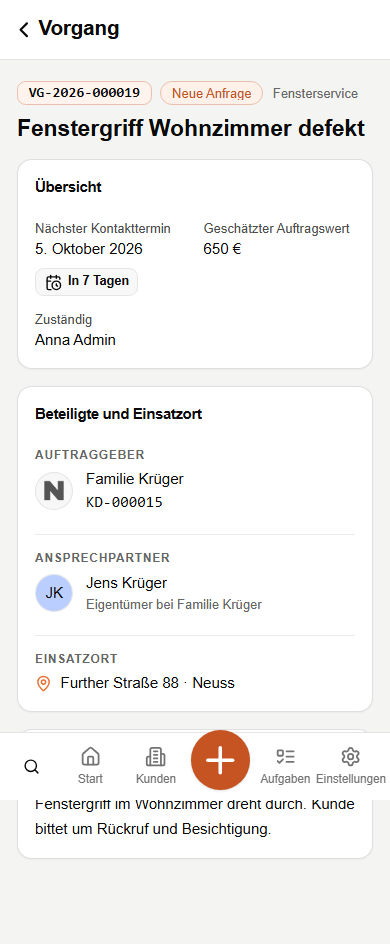
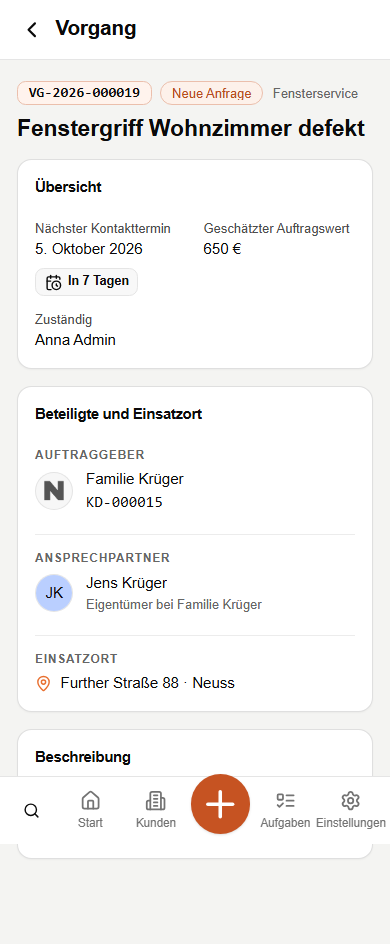
fix(nora): harden Alpha UI 1 deal experience RC
Kanban: `.nora-kanban-scroll` becomes the containing block of its
absolutely positioned descendants so the document no longer scrolls
horizontally (3799 px -> viewport width at 1440/1280/820); the board keeps
its own horizontal scroll, drag-and-drop unchanged.

Hit targets at the Nora 44 px minimum: long-text disclosure, task
completion control (invisible 44 px zone around the 16 px box), mobile
back button, deal header edit link, header customer link, site-detail
disclosure. Accent text (light) deepened to #b94c1e so status pill tint
and app ground clear AA; strong fill and working accent unchanged.

Tests: document overflow invariant, checkbox hit zone, disclosure and
back-button sizes. Docs 02/17 and evidence assets refreshed.

Changed region(s): [[0.0615, 0.768, 0.9846, 0.8909], [0.0615, 0.0, 0.3692, 0.0614]]

diff --git a/src/index.css b/src/index.css
@@ -109,7 +109,10 @@
   --nora-accent-strong: #c65322;
   --nora-accent: #e86f2f;
   --nora-accent-hover: #a8441b;
-  --nora-accent-text: #c65322;
+  /* Accent *text* is one step deeper than the fill: #c65322 measures only
+     4.06:1 on the soft tint and 4.09:1 on the app ground; #b94c1e clears
+     4.5:1 on white, card, soft tint and app ground (hardening pass). */
+  --nora-accent-text: #b94c1e;
   --nora-accent-soft: #fdf1ea;
   --nora-accent-border: color-mix(in oklab, #e86f2f 34%, var(--border));
   --nora-accent-ring: color-mix(in oklab, #e86f2f 34%, transparent);
@@ -655,6 +658,11 @@ input[type="time"] {
   }
 
   .nora-kanban-scroll {
+    /* Containing block for absolutely positioned descendants (e.g. the
+       `sr-only` spans inside cards). Without this they resolve against
+       `.nora-kanban-viewport`, escape this box's overflow clip and widen
+       the whole document to the board's width (measured: 3799 px at 1440). */
+    position: relative;
     width: 100%;
     overflow-x: auto;
     overflow-y: visible;
@@ -1467,8 +1475,10 @@ input[type="time"] {
   }
 
   .nora-longtext-toggle {
-    @apply mt-2 inline-flex items-center gap-1 rounded-md text-[13px] font-medium;
-    min-height: 2.25rem;
+    @apply mt-1 inline-flex items-center gap-1 rounded-md text-[13px] font-medium;
+    min-height: var(--nora-touch-min);
+    padding-inline: 0.25rem;
+    margin-inline: -0.25rem;
     color: var(--nora-accent-text);
   }
 
@@ -1499,12 +1509,47 @@ input[type="time"] {
   .nora-task-check {
     @apply flex shrink-0 items-center justify-center;
     min-width: var(--nora-touch-min);
-    min-height: 2.25rem;
+    min-height: var(--nora-touch-min);
     margin-left: -0.5rem;
+    margin-top: -0.25rem;
+  }
+
+  /* The visible box stays 16 px; the hit area is the full touch minimum. */
+  .nora-task-checkbox {
+    position: relative;
+    width: 1rem;
+    height: 1rem;
+  }
+
+  .nora-task-checkbox::after {
+    content: "";
+    position: absolute;
+    inset: -14px;
   }
 
   .nora-task-body {
     @apply flex min-w-0 flex-1 flex-col gap-1 pt-1.5;
+  }
+
+  /* Mobile header back control: 24 px chevron, touch-sized hit area.
+     Plain declarations so browser tests can measure it. */
+  .nora-mobile-back {
+    width: var(--nora-touch-min);
+    height: var(--nora-touch-min);
+    margin-left: -0.5rem;
+  }
+
+  /* Inline text link inside a meta line: same layout, 44 px hit area. */
+  .nora-inline-target {
+    position: relative;
+    display: inline-block;
+    padding-block: 0.875rem;
+    margin-block: -0.875rem;
+  }
+
+  .nora-deal-dialog-actions > a,
+  .nora-deal-dialog-actions > button {
+    min-height: var(--nora-touch-min);
   }
 
   .nora-task-text {

diff --git a/src/components/atomic-crm/deals/DealTasksSection.test.tsx b/src/components/atomic-crm/deals/DealTasksSection.test.tsx
@@ -48,11 +48,13 @@ const setup = async (deal: Deal = DEAL, tasks: Task[] = [TASK]) => {
         tasks,
       }}
     >
-      <ResourceContextProvider value="deals">
-        <RecordContextProvider value={deal}>
-          <DealTasksSection />
-        </RecordContextProvider>
-      </ResourceContextProvider>
+      <div style={{ padding: 32 }}>
+        <ResourceContextProvider value="deals">
+          <RecordContextProvider value={deal}>
+            <DealTasksSection />
+          </RecordContextProvider>
+        </ResourceContextProvider>
+      </div>
     </StoryWrapper>,
   );
 };
@@ -92,6 +94,17 @@ describe("DealTasksSection (Alpha UI 1)", () => {
     const rect = menu!.getBoundingClientRect();
     expect(rect.width).toBeGreaterThanOrEqual(44);
     expect(rect.height).toBeGreaterThanOrEqual(44);
+    // the completion control: 16 px box, 44 px hit area around it
+    const checkbox = row!.querySelector('[role="checkbox"]') as HTMLElement;
+    const box = checkbox.getBoundingClientRect();
+    expect(
+      document.elementFromPoint(box.right + 10, box.top + box.height / 2),
+    ).toBe(checkbox);
+    expect(
+      document.elementFromPoint(box.left + box.width / 2, box.bottom + 10),
+    ).toBe(checkbox);
+    const wrap = row!.querySelector(".nora-task-check") as HTMLElement;
+    expect(wrap.getBoundingClientRect().height).toBeGreaterThanOrEqual(44);
     // type is shown as a quiet prefix, not as a second heading
     expect(row!.querySelector(".nora-task-type")?.textContent).toBe("Rückruf");
     // the open count is shown in the section head

diff --git a/src/components/atomic-crm/deals/DealShowSections.tsx b/src/components/atomic-crm/deals/DealShowSections.tsx
@@ -1,6 +1,7 @@
 import type { ReactNode } from "react";
 import { Building2, MapPin, UserRound } from "lucide-react";
 import { useListContext, useTranslate } from "ra-core";
+import { Link } from "react-router";
 
 import { ReferenceArrayField } from "@/components/admin/reference-array-field";
 import { ReferenceField } from "@/components/admin/reference-field";
@@ -97,8 +98,23 @@ export const DealHeaderContextLine = ({
       <ReferenceField
         source="company_id"
         reference="companies"
-        link="show"
-        className="font-medium text-foreground"
+        link={false}
+        render={({ referenceRecord }) => {
+          const company = referenceRecord as Company | undefined;
+          if (!company) return null;
+          return (
+            <Link
+              to={noraCreatePath({
+                resource: "companies",
+                type: "show",
+                id: company.id,
+              })}
+              className="nora-inline-target font-medium text-foreground hover:underline"
+            >
+              {company.name}
+            </Link>
+          );
+        }}
       />
       {site ? (
         <span className="inline-flex min-w-0 items-center gap-2">

diff --git a/src/components/atomic-crm/misc/MobileBackButton.test.tsx b/src/components/atomic-crm/misc/MobileBackButton.test.tsx
@@ -1,0 +1,24 @@
+import { page } from "vitest/browser";
+import { render } from "vitest-browser-react";
+import { describe, expect, it } from "vitest";
+
+import "@/index.css";
+import { StoryWrapper } from "@/test/StoryWrapper";
+import { MobileBackButton } from "./MobileBackButton";
+
+describe("MobileBackButton (Alpha UI 1 hardening)", () => {
+  it("offers a touch-sized hit area around the small chevron", async () => {
+    await render(
+      <StoryWrapper>
+        <MobileBackButton to="/" />
+      </StoryWrapper>,
+    );
+    const button = page.getByRole("button", { name: "Back" });
+    await expect.element(button).toBeVisible();
+    const rect = (
+      document.querySelector('button[type="button"]') as HTMLElement
+    ).getBoundingClientRect();
+    expect(rect.width).toBeGreaterThanOrEqual(44);
+    expect(rect.height).toBeGreaterThanOrEqual(44);
+  });
+});

diff --git a/src/components/atomic-crm/deals/DealCard.dnd.test.tsx b/src/components/atomic-crm/deals/DealCard.dnd.test.tsx
@@ -89,6 +89,17 @@ describe("Deal Kanban card (Alpha UI 1)", () => {
     expect(getComputedStyle(site).overflow).toBe("hidden");
   });
 
+  it("keeps horizontal scrolling inside the board, never on the document", async () => {
+    const scroll = document.querySelector(".nora-kanban-scroll") as HTMLElement;
+    expect(scroll).not.toBeNull();
+    // containing block for absolutely positioned descendants (sr-only spans)
+    expect(getComputedStyle(scroll).position).toBe("relative");
+    expect(document.documentElement.scrollWidth).toBeLessThanOrEqual(
+      window.innerWidth + 1,
+    );
+    expect(scroll.scrollWidth).toBeGreaterThanOrEqual(scroll.clientWidth);
+  });
+
   it("still moves a card to another status via keyboard drag and drop", async () => {
     expect(columnOf(7)).toBe("neue-anfrage");
 

diff --git a/src/components/atomic-crm/deals/DealSiteAddressInputs.tsx b/src/components/atomic-crm/deals/DealSiteAddressInputs.tsx
@@ -118,7 +118,7 @@ export const DealSiteAddressInputs = () => {
         <button
           type="button"
           onClick={() => setDetailsExpanded(true)}
-          className="min-h-9 w-fit rounded-md text-left text-[13px] font-medium text-[var(--nora-accent-text)] hover:underline focus-visible:outline-none focus-visible:ring-[3px] focus-visible:ring-[var(--nora-accent-ring)]"
+          className="min-h-11 w-fit rounded-md text-left text-[13px] font-medium text-[var(--nora-accent-text)] hover:underline focus-visible:outline-none focus-visible:ring-[3px] focus-visible:ring-[var(--nora-accent-ring)]"
         >
           Etage oder Klingelschild ergänzen
         </button>

diff --git a/src/components/atomic-crm/misc/NoraLongText.test.tsx b/src/components/atomic-crm/misc/NoraLongText.test.tsx
@@ -34,6 +34,12 @@ describe("NoraLongText (Alpha UI 1)", () => {
     expect(getComputedStyle(body).maxWidth).not.toBe("none");
     expect(body.getBoundingClientRect().width).toBeLessThanOrEqual(640);
 
+    // the disclosure control meets the Nora touch minimum
+    const toggleEl = document.querySelector(
+      ".nora-longtext-toggle",
+    ) as HTMLElement;
+    expect(toggleEl.getBoundingClientRect().height).toBeGreaterThanOrEqual(44);
+
     await userEvent.click(toggle());
     await expect
       .element(page.getByRole("button", { name: /Show less|Weniger/ }))

diff --git a/src/components/atomic-crm/deals/DealShow.tsx b/src/components/atomic-crm/deals/DealShow.tsx
@@ -88,7 +88,7 @@ const DealShowContent = () => {
           <DealHeaderContextLine deal={record} facts={facts} />
         </div>
         <div
-          className={`flex flex-wrap gap-2 shrink-0 justify-end ${record.archived_at ? "" : "pr-10"}`}
+          className={`nora-deal-dialog-actions flex flex-wrap gap-2 shrink-0 justify-end ${record.archived_at ? "" : "pr-10"}`}
         >
           {record.archived_at ? (
             <>

diff --git a/src/components/atomic-crm/misc/MobileBackButton.tsx b/src/components/atomic-crm/misc/MobileBackButton.tsx
@@ -20,7 +20,7 @@ export const MobileBackButton = (props: { resource?: string; to?: string }) => {
       type="button"
       variant="ghost"
       size="icon"
-      className="rounded-full size-5 pr-2"
+      className="nora-mobile-back rounded-full shrink-0"
       onClick={(e) => {
         e.preventDefault();
         navigate(finalTo);

diff --git a/src/components/atomic-crm/tasks/Task.tsx b/src/components/atomic-crm/tasks/Task.tsx
@@ -116,6 +116,7 @@ export const Task = ({
             checked={!!task.done_date}
             onCheckedChange={handleCheck()}
             disabled={isUpdatePending}
+            className="nora-task-checkbox"
             aria-label={translate("resources.tasks.done_toggle", {
               _: "Aufgabe erledigt",
             })}

diff --git a/docs/nora/17-known-issues-and-planned-waves.md b/docs/nora/17-known-issues-and-planned-waves.md
@@ -182,7 +182,7 @@ Der technische PWA-/Update-Contract (Lifecycle, Precache, Offline, Installabilit
 
 ## F. Design-System (projektweit)
 
-- **Kontrast der Nora-Primäraktion** — `OPEN (LOW, projektweit)`, **Messwert korrigiert 2026-09-28**: der frühere Befund (Weiß auf `#ff3b1f`, 3,56:1) beschreibt einen Ton, der seit dem Redesign nicht mehr im Code steht. Aktuell ist die Füllfläche `--nora-accent-strong` = `#c65322`; Weiß darauf misst **4,50:1** und erfüllt AA damit exakt an der Grenze, in Hell und Dunkel identisch. Alpha UI 1 (RC `feature/nora-ui-ux-vnext`) trennt Füll-, Glyph- und Textrollen ([`02`](02-design-system.md) „Nora Visual System v1"); die Markenfarbe selbst ist unverändert. Bleibt offen, weil 4,50:1 keine Reserve lässt — PO-Entscheidung, ob die Füllfläche dunkler oder der Text auf ihr dunkel werden soll.
+- **Kontrast der Nora-Primäraktion** — `OPEN (LOW, projektweit)`, **Messwert korrigiert 2026-09-28**: der frühere Befund (Weiß auf `#ff3b1f`, 3,56:1) beschreibt einen Ton, der seit dem Redesign nicht mehr im Code steht. Aktuell ist die Füllfläche `--nora-accent-strong` = `#c65322`; Weiß darauf misst **4,50:1** und erfüllt AA damit exakt an der Grenze, in Hell und Dunkel identisch. Alpha UI 1 (RC `feature/nora-ui-ux-vnext`) trennt Füll-, Glyph- und Textrollen ([`02`](02-design-system.md) „Nora Visual System v1"); die Markenfarbe selbst ist unverändert. Bleibt offen, weil 4,50:1 keine Reserve lässt — PO-Entscheidung, ob die Füllfläche dunkler oder der Text auf ihr dunkel werden soll. **Hardening 2026-09-28:** Akzent-*Text* (hell) auf `#b94c1e` vertieft — vorher fielen Status-Pill (4,06:1) und App-Grund (4,09:1) unter AA, jetzt 4,60 / 4,63:1; Füllfläche und Arbeitsakzent unverändert.
 - **`.nora-primary-action` unterschreitet das 44-px-Touch-Minimum** — `RESOLVED IN RC` (Alpha UI 1, nicht live): `min-h-10` ist aus dem `@apply` entfernt, die Höhe ist `var(--nora-touch-min)` als einfache Deklaration. Nachmessen der Aufrufstellen (`ContactCreateSheet.tsx`, `DealProductionChecklistSection.tsx`) steht nach dem Release aus. Bis zum Merge gilt der Befund als offen.
 - **Dark-Mode der öffentlichen Zugangs-Shell** — Tokens vorbereitet (`--nora-access-*`), kein `.dark`-Block. `PLANNED FOLLOW-UP`.
 - **Echter Screenreader-Lauf und echte Reduced-Motion-Browsereinstellung** für Onboarding (V1B) und PWA-Fläche — nur per injizierter Stylesheet-Regel bzw. Code-Review gedeckt. `NEEDS RE-VERIFICATION`.
@@ -190,7 +190,7 @@ Der technische PWA-/Update-Contract (Lifecycle, Precache, Offline, Installabilit
 - **Pluralisierung im Audit-Verlauf greift nicht — beide Trennvarianten erscheinen im Text** — `OPEN (LOW)`, verifiziert am Repository-Stand 2026-09-28, **vorbestehend und nicht release-verursacht**. Polyglot wählt die Plural-Variante hinter `||||` nur bei der Interpolationsvariable `smart_count`; übergeben wird an zwei Stellen aber `count`. Ausgabe deshalb wörtlich `4 Änderung anzeigen |||| 4 Änderungen anzeigen`. Betroffen sind **zwei** Aufrufstellen, nicht eine: `src/components/atomic-crm/audit/EntityAuditHistory.tsx:192` (`crm.audit.show_changes`) und `src/components/atomic-crm/audit/AuditPage.tsx:493` (`crm.audit.change_count`). **Abgrenzung:** beide Zeilen stehen wortgleich schon im Vor-Release-Stand `e18905c5`, und der Diff `e18905c5..df13fda8` berührt `src/components/atomic-crm/audit/` **gar nicht** — RC3 hat den Defekt weder verursacht noch verschlimmert. **Abhilfe** (eigener kleiner Slice, nicht beauftragt): an beiden Stellen `smart_count` übergeben; die Übersetzungsstrings selbst sind korrekt und bleiben unangetastet.
 
 - **Pluralisierung im Audit-Verlauf** — teilweise behoben im RC Alpha UI 1: `EntityAuditHistory.tsx` übergibt `smart_count`; **`AuditPage.tsx:493` (`crm.audit.change_count`) bleibt offen** (nicht Teil der Welle).
-- **Mobile Zurück-Schaltfläche misst 21 × 21 px** (`misc/MobileBackButton.tsx`, mobile Kopfzeile aller Detailseiten) — `OPEN (LOW, vorbestehend)`, gemessen 2026-09-28 auf `/vorgaenge/:id/show` bei 390 px. Nicht Teil von Alpha UI 1 (geteilte Kopfzeile).
+- **Mobile Zurück-Schaltfläche misst 21 × 21 px** — `RESOLVED IN RC` (Alpha UI 1 Hardening): `.nora-mobile-back` 44 × 44 px (gemessen 47 × 47 bei 390 px), Chevron unverändert; gilt über die geteilte Kopfzeile für alle mobilen Detailseiten.
 - **Browser-Tests sehen keine `@apply`-Regeln** — `INFO`: `vitest.config.ts` lädt `index.css` ohne das Tailwind-Plugin; nur einfache Deklarationen wirken in Tests. Regel in [`02`](02-design-system.md) „Nora Visual System v1".
 
 ## G. Kunden, Kontakte, Vorgänge, Aufgaben
@@ -259,7 +259,7 @@ W7-R1B (`deals.company_id NOT NULL`) ist `PRODUCTION VERIFIED` und hier **nicht*
 
 ### G.8 Vorgang-Kanban — Seite scrollt horizontal (vorbestehend, 2026-09-28)
 
-- **Das Dokument von `/vorgaenge` ist selbst horizontal scrollbar** — `OPEN (MEDIUM, vorbestehend auf main)`, gemessen 2026-09-28 bei 1440 px: `document.documentElement.scrollWidth` 3799 px, `window.scrollTo(800, 0)` verschiebt die Seite. Ursache nach Sonde: `.nora-kanban-board` (Breite `max-content`, 4060 px) ragt über den Scrollcontainer `.nora-kanban-scroll` hinaus, so dass Board **und** Seite scrollen. Nicht durch Alpha UI 1 verursacht oder verändert (die Karte ist Teil des Boards, nicht des Layouts); gehört zur Kanban-Layout-Welle ([`02`](02-design-system.md) „Vorgangs-Kanban Layout" / „Kanban-Navigation").
+- **Das Dokument von `/vorgaenge` ist selbst horizontal scrollbar** — `RESOLVED IN RC` (Alpha UI 1 Hardening, nicht live): `.nora-kanban-scroll` ist `position: relative`; Dokument = Viewport bei 1440/1280/820 px, Test `DealCard.dnd.test.tsx`. Ursprünglicher Befund: `OPEN (MEDIUM, vorbestehend auf main)`, gemessen 2026-09-28 bei 1440 px: `document.documentElement.scrollWidth` 3799 px, `window.scrollTo(800, 0)` verschiebt die Seite. Ursache nach Sonde: `.nora-kanban-board` (Breite `max-content`, 4060 px) ragt über den Scrollcontainer `.nora-kanban-scroll` hinaus, so dass Board **und** Seite scrollen. Nicht durch Alpha UI 1 verursacht oder verändert (die Karte ist Teil des Boards, nicht des Layouts); gehört zur Kanban-Layout-Welle ([`02`](02-design-system.md) „Vorgangs-Kanban Layout" / „Kanban-Navigation").
 - **Deal-spezifische Kontaktrolle (Mieter, Objektkontakt, Hausverwaltung) existiert nicht im Domänenmodell** — `PARKED (Produktfrage)`, festgehalten in Alpha UI 1: die Akte zeigt den Kunden als Auftraggeber und Ansprechpartner ohne Rolle; `NoraIdentityRow` hat einen Rollen-Slot, der nur eine **persistierte** Rolle anzeigen darf. Entscheidung: [`06`](06-decision-log.md) „2026-09-28 – Alpha UI 1", Punkt 4.
 
 ## H. Anhänge, Storage und weitere bekannte Themen

diff --git a/docs/nora/02-design-system.md b/docs/nora/02-design-system.md
@@ -709,7 +709,7 @@ Eine einzige Orange passt nicht auf jede Rolle: Weiß auf `#c65322` misst exakt 
 |---|---|---|---|
 | `--nora-accent-strong` | `#c65322` | `#c65322` | Füllflächen mit weißem Text (Primäraktion) — 4,50:1 |
 | `--nora-accent` | `#e86f2f` | `#f08a55` | Glyphen, Rahmen, aktive Zustände (Nicht-Text: 3,11:1 hell, ≈ 6,7:1 dunkel) |
-| `--nora-accent-text` | `#c65322` | `#f5945f` | akzentfarbener Text auf Flächen |
+| `--nora-accent-text` | `#b94c1e` | `#f5945f` | akzentfarbener Text auf Flächen — eine Stufe tiefer als die Füllfläche, damit auch Tönung (4,60:1) und App-Grund (4,63:1) AA erfüllen (Hardening) |
 | `--nora-accent-soft` / `-border` / `-ring` | Mischungen aus `--nora-accent` | dito | Tönung, Rahmen, Fokusring |
 | `--nora-text-secondary` / `--nora-text-muted` | `oklch(0.42)` / `oklch(0.51)` | `oklch(0.8)` / `oklch(0.7)` | Sekundärtext, Metadaten (≥ 4,5:1) |
 | `--nora-hairline` / `--nora-divider` | 8 % / 13 % Vordergrund | 9 % / 15 % Weiß | Trennlinien |
@@ -747,6 +747,15 @@ Eine einzige Orange passt nicht auf jede Rolle: Weiß auf `#c65322` misst exakt 
 - `.nora-primary-action` hat keine `min-h-10`-Utility mehr; die Mindesthöhe ist `var(--nora-touch-min)` (44 px) — schließt den Touch-Befund aus [`17`](17-known-issues-and-planned-waves.md) F projektweit.
 - **Browser-Tests kompilieren `index.css` ohne Tailwind:** `@apply`-Regeln sind dort unsichtbar. Layout- und A11y-kritische Maße (Touch-Ziele, Abschneiden, Deckel) stehen deshalb als **einfache Deklarationen**, nicht als `@apply`.
 - Fieldset-Gruppen tragen **kein** `aria-labelledby`: eine so benannte Gruppe kollidiert mit `getByLabel` eines gleichnamigen Feldes („Beschreibung"); die `legend` benennt die Gruppe nativ.
+
+### Hardening-Pass (2026-09-28, RC-Ergänzung)
+
+Objektive Korrekturen vor der PO-Sichtprüfung, ohne die gewählte Richtung zu ändern:
+
+- **`/vorgaenge` scrollt nicht mehr als Dokument.** `.nora-kanban-scroll` ist jetzt `position: relative` und damit Containing Block seiner absolut positionierten Nachkommen (die `sr-only`-Spans in den Karten). Vorher lösten diese gegen `.nora-kanban-viewport` auf, entgingen dem Overflow-Clip des Scrollcontainers und weiteten das Dokument auf Boardbreite (gemessen 3799 px bei 1440). Nachher: Dokument = Viewport bei 1440/1280/820 px, Board scrollt weiterhin nur in seinem Viewport (`scrollWidth` 4060 bei `clientWidth` 1392/1232/772); Drag-and-drop und Tastatur-DnD unverändert (Test). Regel: **Ein horizontaler Scrollcontainer ist immer auch `position: relative`.**
+- **Trefferflächen (44 px, Nora-Minimum):** `.nora-longtext-toggle` 36 → 44; `.nora-task-check` 36 → 44 und die 16-px-Checkbox erhält über `::after` (inset −14 px) eine unsichtbare 44-px-Treffzone; `MobileBackButton` 21 × 21 → 44 × 44 (`.nora-mobile-back`, 24-px-Chevron bleibt); „Bearbeiten"-Link im Vorgangskopf 36 → 44 (`.nora-deal-dialog-actions`); Kundenlink in der Kontextzeile über `.nora-inline-target` (Padding/negative Margins, Layout unverändert); Offenlegung „Etage oder Klingelschild ergänzen" 36 → 44. Alle als einfache Deklarationen (testbar).
+- **Kontrast nachgemessen (Canvas-aufgelöst, hell/dunkel):** Weiß auf Füllfläche 4,50:1 (unverändert, PO-Entscheidung); Akzenttext hell jetzt `#b94c1e`: 5,10:1 auf Weiß/Karte, 4,60:1 auf Status-Pill-Tönung, 4,63:1 auf App-Grund, 4,53:1 auf der Überfällig-Tönung (vorher 4,50 / **4,06** / **4,09** / 4,50). Dunkel: 6,1–8,8:1. Arbeitsakzent `#e86f2f` bleibt Nicht-Text (3,11:1 auf Karte, 2,83:1 auf App-Grund — dort nicht als alleiniger Indikator verwenden).
+- **Geteilter Änderungsverlauf geprüft:** Vorgangsakte und Kontaktakte nutzen die zuklappbare Fläche (zugeklappt, kein RPC vor dem Öffnen, `aria-expanded`, geladener Zustand bleibt beim Zu-/Aufklappen); die Kundenakte bettet den Verlauf mit `embedded` in ihren Tab „Historie" ein und lädt ihn beim Öffnen des Tabs — die explizit nicht zuklappbare Variante, unverändert.
 
 ## Redesign zur Freigabe (2026-09-25, noch nicht live)
 Kompaktes Logo und großzügige Navigation für Desktop und Tablet; das bestehende Hotboard bleibt erhalten. Keine neue Arbeitskorb-/Posteingangsfläche. Vorgänge zeigen Titel → Kunde → Einsatzort. Kontakte und Demo-Rolle liegen in Einstellungen; Demo-Rollen schaffen keine Berechtigungen.
